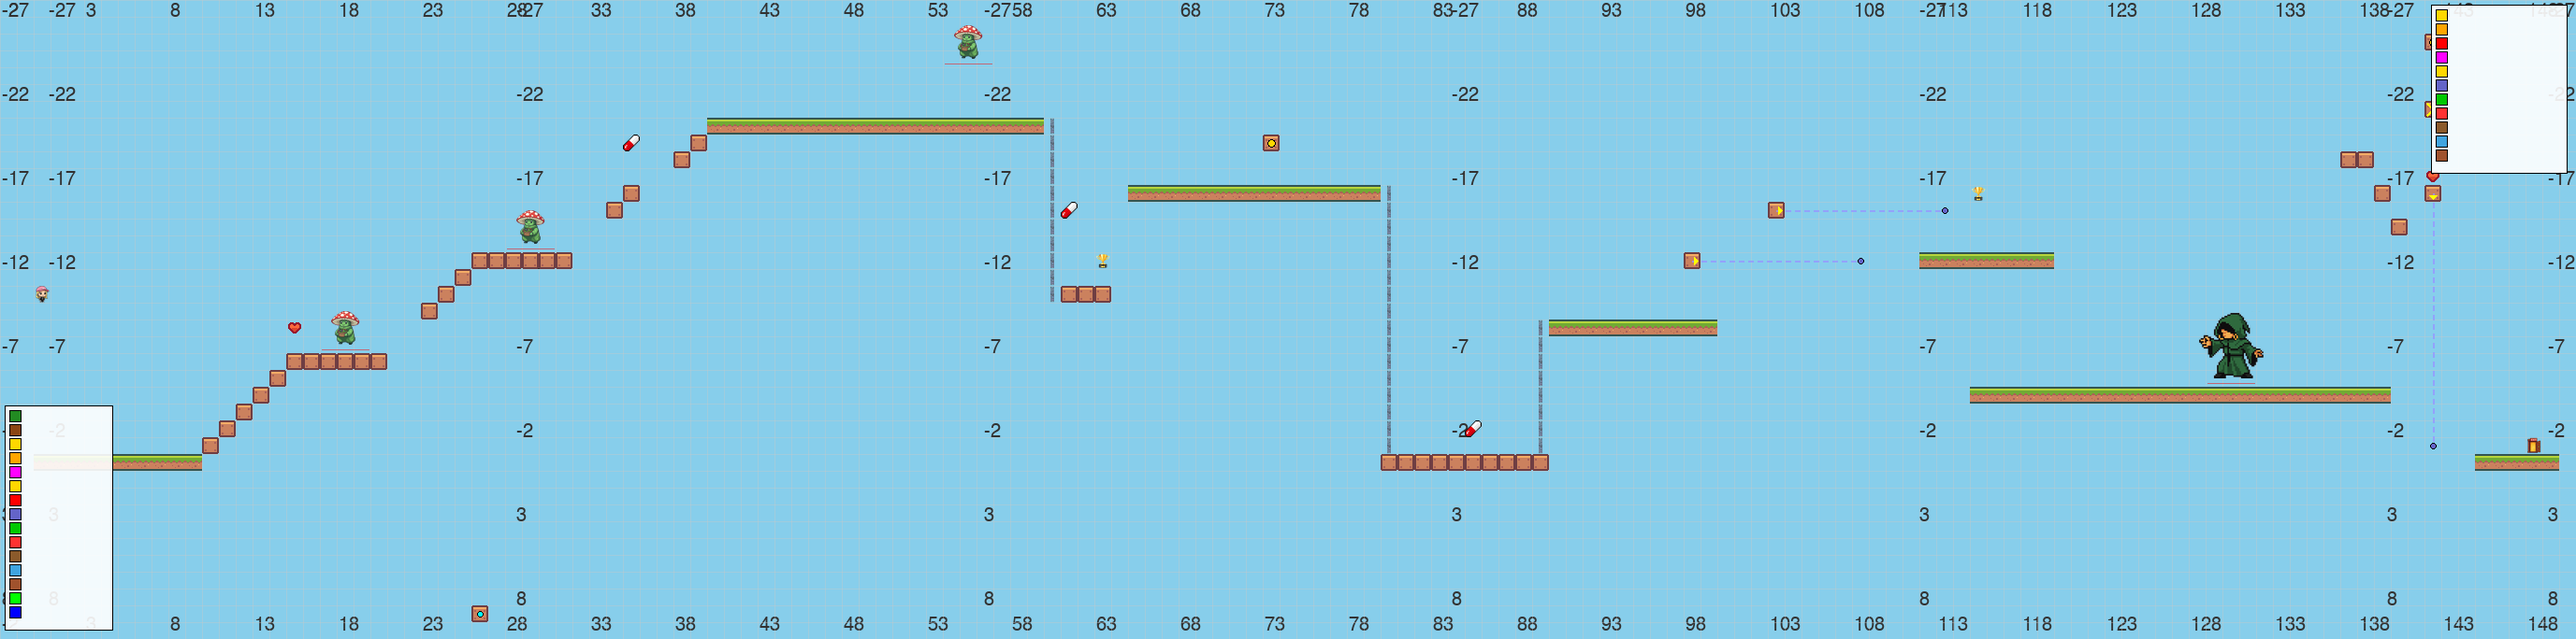
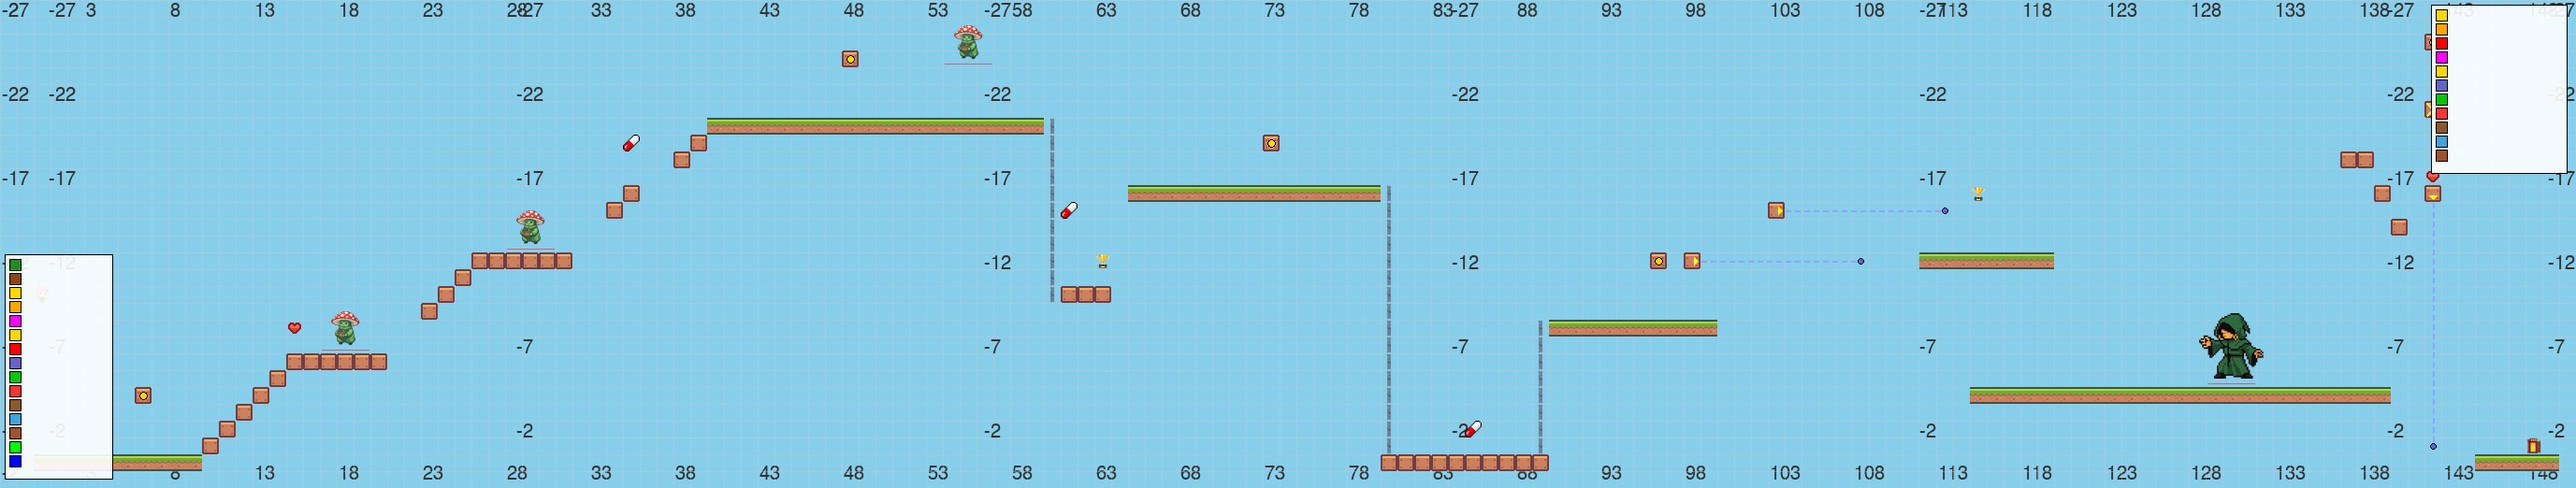
changes to trancefloor

diff --git a/platformer/levels/trancefloor.py b/platformer/levels/trancefloor.py
@@ -20,8 +20,7 @@ level_config = {
     + [(270, i) for i in range(-16, -10)]
     + [(i, -16) for i in range(270, 281)]
     + [(i, -16) for i in range(282, 290)]
-    + [(i, -40) for i in range(290, 420)]
-    + [(i, -20) for i in range(420, 500)],
+    + [(i, -40) for i in range(290, 410)],
     # Extended block locations - original plus new challenging platforming sections
     "block_locations": [
         # pyramid structure
@@ -97,29 +96,63 @@ level_config = {
         *[(i, -27) for i in range(312, 313)],
     ],
     "poppable_block_locations": [
+        # Dict format allows specifying type and item
         {
-            "x": 10,
-            "y": -20,
+            "x": 185,
+            "y": -36,
             "type": "item",
             "item": {"type": "gem", "image": "gem.png"},
         },  # Releases a gem
+        {
+            "x": 93,
+            "y": -32,
+            "type": "item",
+            "item": {"type": "gem", "image": "gem.png"},
+        },  # Releases a gem
+        {
+            "x": 44,
+            "y": -31,
+            "type": "item",
+            "item": {"type": "powerup", "powerup_type": 5},
+        },
+        {
+            "x": 123,
+            "y": -27,
+            "type": "item",
+            "item": {"type": "powerup", "powerup_type": 5},
+        },
+        {
+            "x": 233,
+            "y": -19,
+            "type": "item",
+            "item": {"type": "powerup", "powerup_type": 3},
+        },
+        {
+            "x": 300,
+            "y": -45,
+            "type": "item",
+            "item": {"type": "powerup", "powerup_type": 5},
+        },
     ],
     # Extended gem locations - more rewards throughout the longer level
     "gem_locations": [
         # Original gems
         (35, -40),
         (140, -40),
-        (280, -10),
-        (311, -32),
+        (256, -50),
     ],
     "ladder_locations": [(289, i) for i in range(-40, -16)],
     "powerup_locations": [
-        {"x": 10, "y": -23, "type": 5},  # Teil collectible
         {"x": 50, "y": -25, "type": 3},
-        {"x": 182, "y": -37, "type": 3},
+        {"x": 158, "y": -47, "type": 3},
         {"x": 83, "y": -27, "type": 2},
-        # {"x": 219, "y": -40, "type": 2},  # test, disable later
-        {"x": 108, "y": -25, "type": 0},
+        {"x": 80, "y": -18, "type": 0},
+        {"x": 408, "y": -42, "type": 3},
+        {"x": 260, "y": -12, "type": 3},
+        {"x": 295, "y": -30, "type": 5},
+        {"x": 350, "y": -45, "type": 3},
+        {"x": 280, "y": -20, "type": 0},
+        {"x": 145, "y": -26, "type": 0},
     ],
     # Enemies (using centralized config templates with overrides where needed)
     "enemy_locations": [
@@ -127,11 +160,11 @@ level_config = {
         {"type": "trance_jesus", "x": 170, "y": -35},
         {"type": "trance_hippie", "x": 215, "y": -42},
         {"type": "trance_okf", "x": 255, "y": -10},
-        {"type": "dj_booth", "x": 336, "y": -55},
+        {"type": "dj_booth", "x": 340, "y": -55},
         # Special final enemy (yourself!) - custom config needed
         {
-            "x": 480,
-            "y": -22,
+            "x": 390,
+            "y": -45,
             "image": "player/suffi.png",
             "speed": 3,
             "patrol_range": 300,
@@ -308,10 +341,11 @@ level_config = {
     "trophy_locations": [
         (84, -30),
         (133, -32),
-        (256, -50),
+        (280, -10),
+        (311, -32),
     ],
     "trophy_image": "mushroom.png",
-    "exit_location": (499, -22),
+    "exit_location": (400, -44),
     # Pipe configuration - this is the important part!
     "pipe_locations": [
         {

diff --git a/platformer/levels/trancefloor-sub.py b/platformer/levels/trancefloor-sub.py
@@ -58,7 +58,6 @@ level_config = {
     "poppable_block_locations": [
         (142, -21),  # Disappears after being popped
         # Dict format allows specifying type and item
-        {"x": 26, "y": 9, "type": "fix"},  # Turns into solid block after popping
         {
             "x": 142,
             "y": -25,
@@ -70,6 +69,24 @@ level_config = {
             "y": -19,
             "type": "item",
             "item": {"type": "powerup", "powerup_type": 3},
+        },
+        {
+            "x": 96,
+            "y": -12,
+            "type": "item",
+            "item": {"type": "powerup", "powerup_type": 5},
+        },
+        {
+            "x": 48,
+            "y": -24,
+            "type": "item",
+            "item": {"type": "powerup", "powerup_type": 3},
+        },
+        {
+            "x": 6,
+            "y": -4,
+            "type": "item",
+            "item": {"type": "powerup", "powerup_type": 5},
         },
     ],
     "gem_locations": [(15, -8), (142, -17)],
@@ -154,6 +171,7 @@ level_config = {
             "direction": "vertical",  # "horizontal" or "vertical" (for linear only)
         },
     ],
+    "trophy_image": "mushroom.png",
     "exit_location": (148, -1),
     "spike_locations": [],
     # "background_music": "assets/music/level1.ogg",  # Path relative to game root
